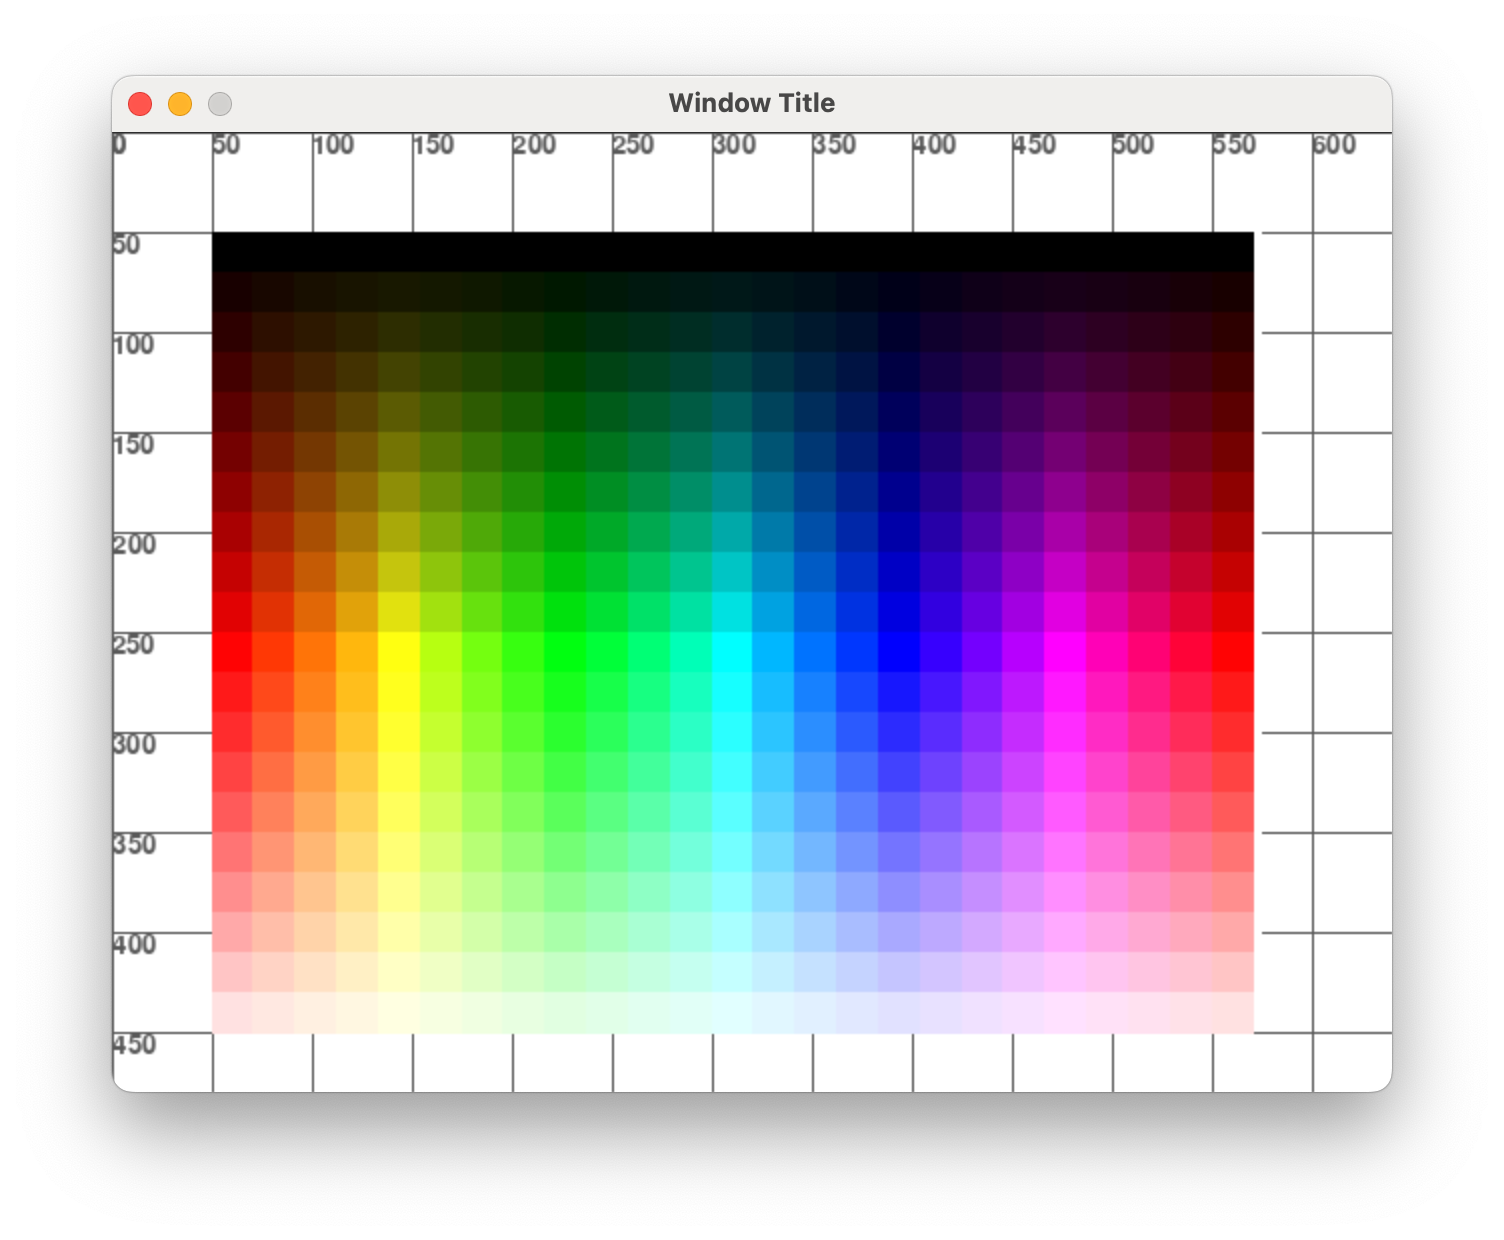
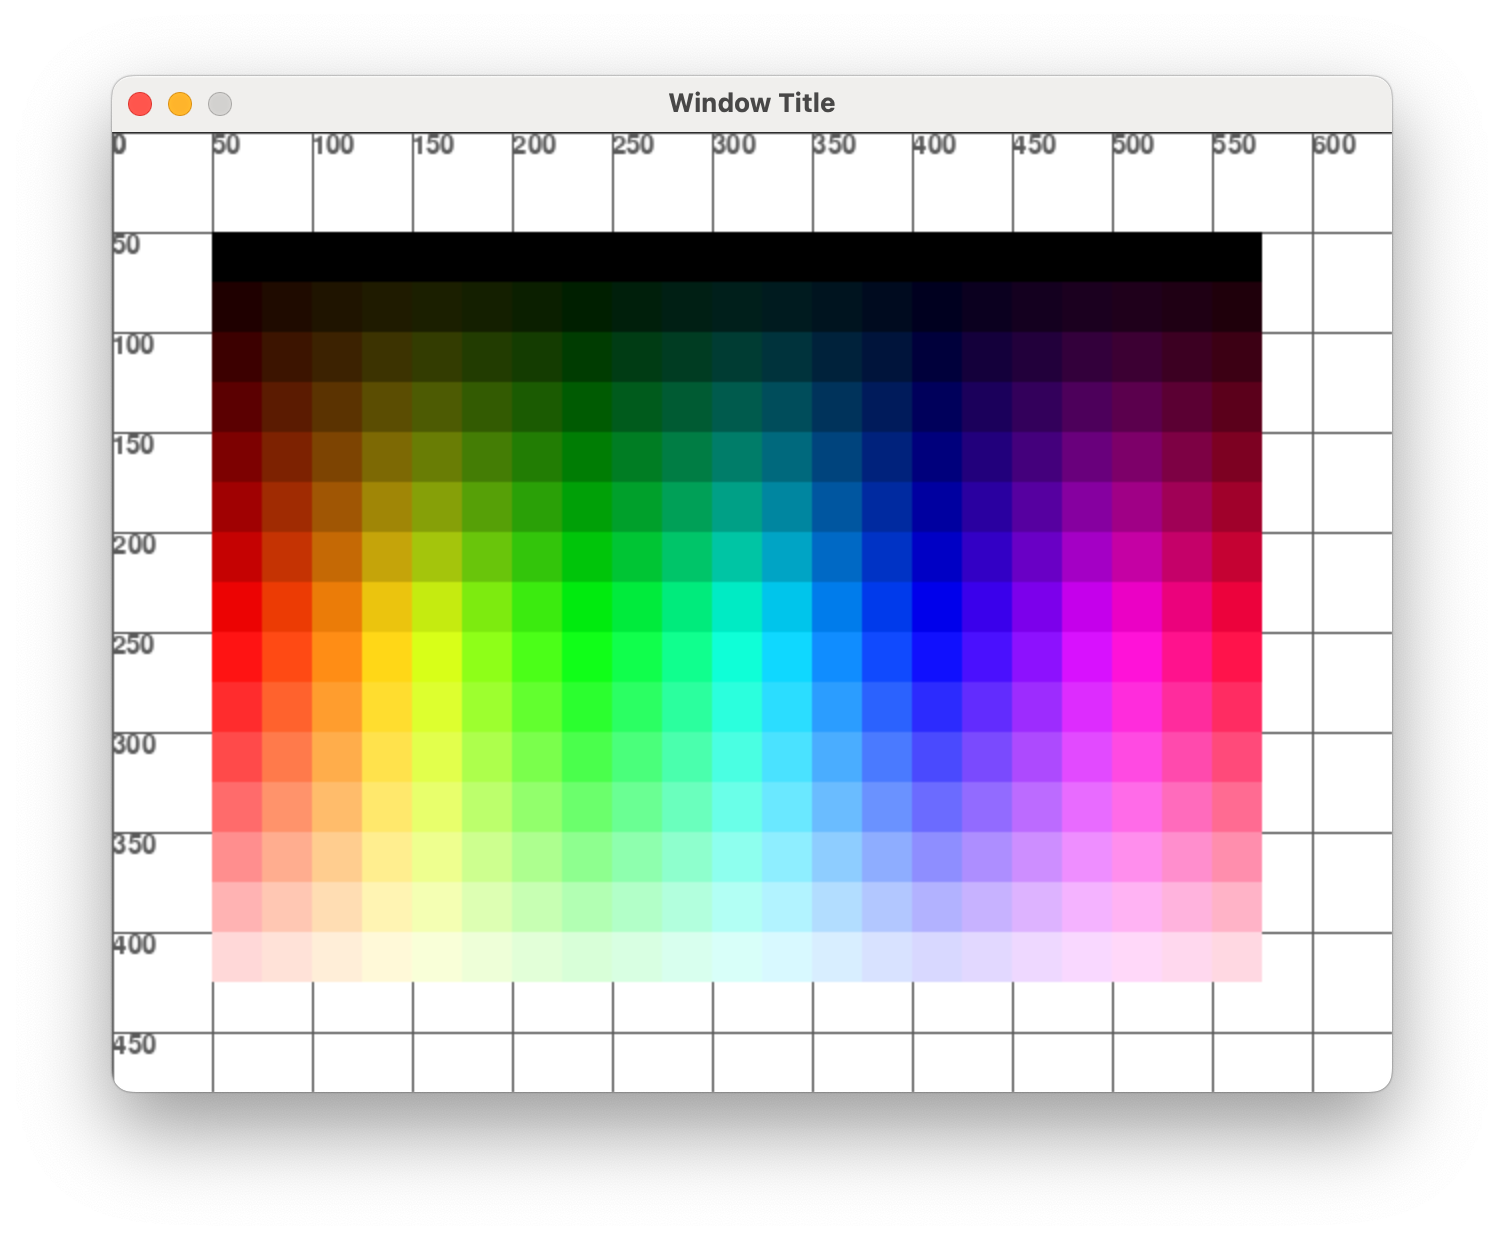
.

Changed region(s): [[0.125, 0.1839, 0.8438, 0.8581]]

diff --git a/Python/52 Deures D/exercici023resolt.py b/Python/52 Deures D/exercici023resolt.py
@@ -11,10 +11,9 @@ BLACK = (0, 0, 0)
 BLUE = (50, 120, 200)
 BROWN = (165, 42, 42)
 YELLOW = (255, 255, 0)
-GRAY = (200, 200, 200)
+GRAY = (169, 169, 169) 
 ORANGE = (255, 165, 0)
 GOLD = (255, 215, 0)
-LIGHT_GRAY = (169, 169, 169) 
 RED = (255, 69, 0) 
 
 pygame.init()
@@ -27,16 +26,15 @@ pygame.display.set_caption('Window Title')
 # Definir variables globals
 font = pygame.font.Font(None, 16)
 
-earth_rotation = 150
 sun = {
     "pos": (0, 0),
-    "radius": earth_rotation / 10
+    "radius": 20
 }
 planets = {
-    "Mercury": { "angle": 0, "distance": 0.39, "speed": 47.87, "size": 0.38, "color": LIGHT_GRAY, "pos": (0, 0) },
-    "Venus":   { "angle": 0, "distance": 0.72, "speed": 35.02, "size": 0.95, "color": GOLD, "pos": (0, 0) },
-    "Earth":   { "angle": 0, "distance": 1.00, "speed": 29.78, "size": 1.00, "color": BLUE, "pos": (0, 0) },
-    "Mars":    { "angle": 0, "distance": 1.52, "speed": 24.07, "size": 0.53, "color": RED, "pos": (0, 0) },
+    "Mercury": { "distance": 58,  "speed": 47.87, "size": 3.80, "color": GRAY, "angle": 0, "pos": (0, 0) },
+    "Venus":   { "distance": 108, "speed": 35.02, "size": 9.50, "color": GOLD, "angle": 0, "pos": (0, 0) },
+    "Earth":   { "distance": 150, "speed": 29.78, "size": 10.0, "color": BLUE, "angle": 0, "pos": (0, 0) },
+    "Mars":    { "distance": 228, "speed": 24.07, "size": 5.30, "color": RED,  "angle": 0, "pos": (0, 0) },
 }
 
 # Bucle de l'aplicació
@@ -67,13 +65,13 @@ def app_run():
     delta_time = clock.get_time() / 1000.0  
     
      # Posició del Sol al centre de la pantalla
-    sun["pos"] = (screen.get_width() // 2, screen.get_height() // 2) 
+    sun["pos"] = (int(screen.get_width() / 2), int(screen.get_height() / 2)) 
 
     planet_names = list(planets.keys()) 
     for name in planet_names:
         planet = planets[name]
-        planet["angle"] += planet["speed"] * delta_time
-        distance_from_sun = earth_rotation * planet["distance"]  # Escala la distància respecte al radi de la Terra
+        planet["angle"] = planet["angle"] + planet["speed"] * delta_time
+        distance_from_sun = planet["distance"]
         planet["pos"] = posicio_perimetre_cercle(sun["pos"], distance_from_sun, planet["angle"])
 
 # Dibuixar
@@ -88,19 +86,17 @@ def app_draw():
 
     # Dibuixar els planetes i les seves òrbites
     for name, planet in planets.items():
-        orbit_radius = earth_rotation * planet["distance"]
-        planet_draw_radius = int(planet["size"] * 10)
-                          
+                         
         # Dibuixar l'òrbita com a cercle gris (traç de 1 píxel)
-        pygame.draw.circle(screen, GRAY, sun["pos"], int(orbit_radius), 1)
+        pygame.draw.circle(screen, GRAY, sun["pos"], planet["distance"], 1)
         
         # Dibuixar el planeta a la seva posició
-        pygame.draw.circle(screen, planet["color"], (int(planet["pos"][0]), int(planet["pos"][1])), planet_draw_radius)
+        pygame.draw.circle(screen, planet["color"], (int(planet["pos"][0]), int(planet["pos"][1])), planet["size"])
 
         # Dibuixar el nom del planeta
-        label = font.render(name, True, LIGHT_GRAY)
+        label = font.render(name, True, GRAY)
         label_rect = label.get_rect()
-        label_rect.midleft = (planet["pos"][0] + planet_draw_radius + 5, planet["pos"][1]) 
+        label_rect.midleft = (planet["pos"][0] + planet["size"] + 5, planet["pos"][1]) 
         screen.blit(label, label_rect)
 
     pygame.display.update()

diff --git a/Python/52 Deures D/exercici016resolt.py b/Python/52 Deures D/exercici016resolt.py
@@ -53,15 +53,21 @@ def app_draw():
     utils.draw_grid(pygame, screen, 50)
 
     # Dibuixar les dades
-    for hue in range(0, 361, 15):
-        for counter in range(0, 100, 5):
-            value = counter / 100
+    
+    rows = 15
+    columns = 21
+    lgt_step = (1/ rows)
+    hue_step = (360 / columns)
 
-            x = 50 + hue * (500 / 360)
-            y = 50 + counter * 4
+    for row in range(0, rows):
+        y = 50 + row * 25
+        lightness = lgt_step * row
+        for column in range(0, columns):
+            x = 50 + column * 25
+            hue = hue_step * column
 
-            color = hsl_to_rgb(hue, 1.0, value)
-            pygame.draw.rect(screen, color, pygame.Rect(x, y, 21, 21))
+            color = hsl_to_rgb(hue, 1.0, lightness)
+            pygame.draw.rect(screen, color, pygame.Rect(x, y, 25, 25))
 
     # Actualitzar el dibuix a la finestra
     pygame.display.update()

diff --git a/Python/52 Deures D/exercici015resolt.py b/Python/52 Deures D/exercici015resolt.py
@@ -53,10 +53,14 @@ def app_draw():
     utils.draw_grid(pygame, screen, 50)
 
     # Dibuixar les dades
-    for hue in range(0, 361, 15):
-        x = 50 + hue * (500 / 360)
+    columns = 21
+    hue_step = (360 / columns)
+    for column in range(0, columns):
+        x = 50 + column * 25
+        hue = hue_step * column
+
         color = hsl_to_rgb(hue, 1.0, 0.5)
-        pygame.draw.rect(screen, color, pygame.Rect(x, 200, 21, 21))
+        pygame.draw.rect(screen, color, pygame.Rect(x, 200, 25, 25))
 
     # Actualitzar el dibuix a la finestra
     pygame.display.update()

diff --git a/Python/52 Deures D/exercici007resolt.py b/Python/52 Deures D/exercici007resolt.py
@@ -68,13 +68,14 @@ def app_draw():
         x = 50 + (q * 100) + radius
         pygame.draw.circle(screen, colors[q], (x, 150 + radius), radius, 2)
 
+    grey = 0
     for q in range (0, 10):
         radius = 25
         x = 50 + (q * 100) + radius
-        grey = 25 * q
         color = (grey, grey, grey)
         draw_polygon(screen, color, (x, 250 + radius), radius, 3)
         draw_polygon(screen, color, (x, 350 + radius), radius, 5)
+        grey = grey + 25
 
     # Actualitzar el dibuix a la finestra
     pygame.display.update()

diff --git a/Python/52 Deures D/exercici005resolt.py b/Python/52 Deures D/exercici005resolt.py
@@ -50,7 +50,7 @@ def app_draw():
     utils.draw_grid(pygame, screen, 50)
     
     # Centre de la finstra
-    center_x, center_y = screen.get_width() // 2, screen.get_height() // 2
+    center_x, center_y = int(screen.get_width() / 2), int(screen.get_height() / 2)
     
     # Paràmetres de l'espiral rectangular
     x, y = center_x, center_y

diff --git a/Python/52 Deures D/Exercicis.md b/Python/52 Deures D/Exercicis.md
@@ -69,7 +69,7 @@ Fes un programa **exercici003.py** que faci el següent dibuix, amb les eines de
 
 Fes servir dos bucles:
 
-- Un bucle per els colors emplenats vermells i blancs
+- Un bucle pels colors emplenats vermells i blancs
 - Un bucle pels cercles negres
 
 <br/>
@@ -81,7 +81,7 @@ Fes servir dos bucles:
 
 Fes un programa **exercici004.py** que faci un dibuix aleatori, amb les eines de dibuix de **pygame**.
 
-Al iniciar el mètode main, s'ha d'emplenar una llista amb 10 coordenades (x,y) aleatòria dins dels limits de la pantalla.
+Al iniciar el mètode main, s'ha d'emplenar una llista amb 10 coordenades (x,y) aleatòria dins dels limits de la finestra.
 
 ```python
 window_width, window_height = screen.get_size()
@@ -101,7 +101,7 @@ Fes un programa **exercici005.py** que faci el següent dibuix, amb les eines de
 S'ha de dibuixar una espiral rectangular que surt des del centre de la finestra:
 ```python
 # Centre de la pantalla
-center_x, center_y = screen.get_width() // 2, screen.get_height() // 2
+center_x, center_y = int(screen.get_width() / 2), int(screen.get_height() / 2)
 ```
 
 En total ha de fer 25 voltes (linies) a partir d'un bucle:
@@ -134,18 +134,18 @@ Fes un programa **exercici006.py** que faci el següent dibuix, fent servir bucl
 
 Fes un programa **exercici007.py** que faci el següent dibuix, a partir de dos bucles:
 
-- Els bucles es defineixen com **for q in range (0, len(colors))**
+- Els bucles es defineixen com: **"for q in range (0, len(colors))"**
 
-- Els colors del primer bucle s'obtenen de la següent llista
-    colors = [(127, 184, 68), (240, 187, 64), (226, 137, 50), (202, 73, 65), (135, 65, 152), (75, 154, 217)]
+- Els colors del primer bucle s'obtenen de la següent llista:
+    **"colors = [(127, 184, 68), (240, 187, 64), (226, 137, 50), (202, 73, 65), (135, 65, 152), (75, 154, 217)]"**
 
-- Els colors *grisos* s'obtenen dinàmicament des de (0, 0, 0) sumant 25 a cada iteració.
+- Els colors *grisos* s'obtenen dinàmicament des de (0, 0, 0) sumant 25 a cada iteració. És a dir: **"(0, 0, 0) > (25, 25, 25) > (50, 50, 50) ..."**
 
-- La mida dels quadres és de 50 i els radis de la resta de polígons és de 25
+- La mida dels quadres és de **50** i els radis de la resta de polígons és de **25**
 
 - Necessitaràs la següent funció per dibuixar els triangles i pentàgons.
 
-```pyton
+```python
 def draw_polygon(screen, color, center, radius, num_vertices, angle_offset=(math.pi / 3)):
     points = [
         (
@@ -164,9 +164,10 @@ def draw_polygon(screen, color, center, radius, num_vertices, angle_offset=(math
 
 ## Exercici 8
 
-Fes un programa **exercici008.py** que faci el següent dibuix, a partir de la següent matriu, on cada número de la matriu correspon a un color de la llista del primer exercici. 
+Fes un programa **exercici008.py** que faci el següent dibuix, a partir de la següent matriu, on cada número de la matriu correspon a un color de la llista:
 
-```text
+```python
+colors = [(127, 184, 68), (240, 187, 64), (226, 137, 50), (202, 73, 65), (135, 65, 152), (75, 154, 217)]
 board = [
     [0, 1, 2, 3, 4, 5, 4, 3],
     [1, 2, 3, 4, 5, 4, 3, 2],
@@ -238,7 +239,7 @@ Dibuixi els rectangles a les posicions indicades, i els empleni del color quan e
 
 Ha de fer servir bucles for, tant a **"app_run""** per detectar si el mouse està en algun rectangle, com a **"app_draw"** per fer el dibuix.
 
-Podeu fer servir la funció **.collidepoint** de **pygame** que a partir d'un **Rect** i un **punt** diu si el punt està dins del rectangle o no.
+Podeu fer servir la funció [collidepoint](https://www.pygame.org/docs/ref/rect.html#pygame.Rect.collidepoint) de **pygame** que a partir d'un **Rect** i un **punt** diu si el punt està dins del rectangle o no.
 
 <center>
 <video width="100%" controls allowfullscreen style="max-width: 90%; width: 400px; max-height: 250px">
@@ -293,7 +294,15 @@ La posició **x** de cada quadre també s'ha de calcular a partir de **counter**
 
 ## Exercici 15
 
-Fes un programa **exercici015.py** que faci el següent dibuix, a partir d'un bucle i la funció que transforma valors de color HSL a RGB:
+Fes un programa **exercici015.py** que faci el següent dibuix, a partir d'un bucle.
+
+Els colors [HSL](https://en.wikipedia.org/wiki/HSL_and_HSV) representen els colors a partir de:
+
+- **hue**: Un número entre 0 i 360 que representa el color (to) en el cercle cromàtic. 
+- **saturation**: Un número entre 0 i 1 que representa la saturació o intensitat del color. 
+- **lightness**: Un número entre 0 i 1 que representa la lluminositat del color. 
+
+Aquesta funció transforma un color **HSL** al format **RGB** de **pygame**:
 
 ```python
 def hsl_to_rgb(hue, saturation, lightness):
@@ -311,19 +320,18 @@ def hsl_to_rgb(hue, saturation, lightness):
     return r, g, b
 ```
 
-Els color [HSL](https://en.wikipedia.org/wiki/HSL_and_HSV) representen els colors a partir de:
-
-- **hue**: Un número entre 0 i 360 que representa el color (to) en el cercle cromàtic. 
-- **saturation**: Un número entre 0 i 1 que representa la saturació o intensitat del color. 
-- **lightness**: Un número entre 0 i 1 que representa la lluminositat del color. 
-
 Per fer l'exercici fes servir:
 
-- El bucle: **for hue in range(0, 361, 15):**
-- **x**: 50 + hue * (500 / 360)
+```python
+columns = 21
+    for column in range(0, columns):
+```
+
+- **x**: x = 50 + column * 25
+- **hue**: hue = (360 / 21) * column
 - **saturation**: 1.0
 - **lightness**: 0.5
-- Cada quadre és de 21x21
+- Cada quadre és de 25x25
 
 <br/>
 <center><img src="./assets/exercici015.png" style="max-height: 400px" alt="">
@@ -335,15 +343,17 @@ Per fer l'exercici fes servir:
 Fes un programa **exercici016.py** que faci el següent dibuix, a partir de dos bucles anidats:
 
 ```python
-for hue in range(0, 361, 15):
-    for counter in range(0, 100, 5):
+rows = 15
+columns = 21
+for row in range(0, rows):
+    for column in range(0, columns):
 ```
 
 - Obté un valor entre 0 i 1 equivalent al counter (dividir per 100)
-- **y**: 50 + counter * 4
+- **y**: 50 + row * 25
 - **saturation**: 1.0
-- **lightness**: Igual al valor entre 0 i 1 del càlcul anterior
-- Cada quadre és de 21x21
+- **lightness**: (1/ 15) * row
+- Cada quadre és de 25x25
 
 <br/>
 <center><img src="./assets/exercici016.png" style="max-height: 400px" alt="">
@@ -381,7 +391,7 @@ Fes un programa **exercici018.py** que faci el següent dibuix, una [roda de col
 
 Per fer-ho, calcula les linies com a l'exercici anterior i defineix un polígon entre la línia actual i la linia anterior. 
 
-Després emplena aquest polígon del color HSL amb l'**angle** que correson, **saturarion** a 1.0 i **lightness** a 0.5.
+Després emplena aquest polígon del color **HSL** amb l'**angle** que correson, **saturarion** a 1.0 i **lightness** a 0.5.
 
 <br/>
 <center><img src="./assets/exercici018.png" style="max-height: 400px" alt="">
@@ -514,45 +524,53 @@ BLACK = (0, 0, 0)
 BLUE = (50, 120, 200)
 BROWN = (165, 42, 42)
 YELLOW = (255, 255, 0)
-GRAY = (200, 200, 200)
+GRAY = (169, 169, 169) 
 ORANGE = (255, 165, 0)
 GOLD = (255, 215, 0)
-LIGHT_GRAY = (169, 169, 169) 
 RED = (255, 69, 0) 
 
 # Dades del sistema
-earth_rotation = 150
 sun = {
     "pos": (0, 0),
-    "radius": earth_rotation / 10
+    "radius": 20
 }
 planets = {
-    "Mercury": { "angle": 0, "distance": 0.39, "speed": 47.87, "size": 0.38, "color": LIGHT_GRAY, "pos": (0, 0) },
-    "Venus":   { "angle": 0, "distance": 0.72, "speed": 35.02, "size": 0.95, "color": GOLD, "pos": (0, 0) },
-    "Earth":   { "angle": 0, "distance": 1.00, "speed": 29.78, "size": 1.00, "color": BLUE, "pos": (0, 0) },
-    "Mars":    { "angle": 0, "distance": 1.52, "speed": 24.07, "size": 0.53, "color": RED, "pos": (0, 0) },
+    "Mercury": { "distance": 58,  "speed": 47.87, "size": 3.80, "color": GRAY, "angle": 0, "pos": (0, 0) },
+    "Venus":   { "distance": 108, "speed": 35.02, "size": 9.50, "color": GOLD, "angle": 0, "pos": (0, 0) },
+    "Earth":   { "distance": 150, "speed": 29.78, "size": 10.0, "color": BLUE, "angle": 0, "pos": (0, 0) },
+    "Mars":    { "distance": 228, "speed": 24.07, "size": 5.30, "color": RED,  "angle": 0, "pos": (0, 0) },
 }
 
-# A "app_run" es calcularà l'angle i la posició segons l'animació
+# A "app_run" es calcularà:
 
-# A "app_run" posiciona el sol al centre de la pantalla
-sun["pos"] = (screen.get_width() // 2, screen.get_height() // 2) 
+    # La posició del sol al centre de la finestra
+    sun["pos"] = (int(screen.get_width() / 2), int(screen.get_height() / 2)) 
 
-# A "app_run" calcula la posició de cada planeta amb la funció
+    # Per cada planeta, calcula el seu 'angle' a partir de "velocitat*delta_time"
+    # (cada planeta té la seva pròpia velocitat)
+
+    # Per cada planeta, calcula la seva posició 'x,y' al perímetre de la òrbita
+    # amb la funció 'posicio_perimetre_cercle'
+    # - El radi és la seva distància fins al sol 
+    # - L'angle l'has calculat al pas anterior
+
+# A "app_draw" per cada planeta es dibuixa:
+
+    # El cercle de la òrbita de color "GRAY = (169, 169, 169)" 
+    # Cada planeta a la seva posició
+
+    # El nom del planeta
+    label = font.render(name, True, GRAY)
+    label_rect = label.get_rect()
+    label_rect.midleft = (planet["pos"][0] + planet["size"] + 5, planet["pos"][1]) 
+    screen.blit(label, label_rect)
+
+# Fes servir aquesta funció per calcular la posició (x, y) dels planetes
 def posicio_perimetre_cercle(center, radi, angle_graus):
     angle_radians = math.radians(angle_graus)  # Convertir l'angle a radians
     x = center[0] + radi * math.cos(angle_radians)    # Coordenada X
     y = center[1] + radi * math.sin(angle_radians)    # Coordenada Y
     return x, y
-
-# A "app_draw" tingues en compte que el plantea es dibuixa amb una mida 
-planet_draw_radius = int(planet["size"] * 10)
-
-# A "app_draw" tingues en compte que els noms dels planetes s'alinean a la dreta + 5
-label = font.render(name, True, LIGHT_GRAY)
-label_rect = label.get_rect()
-label_rect.midleft = (planet["pos"][0] + planet_draw_radius + 5, planet["pos"][1]) 
-screen.blit(label, label_rect)
 ```
 
 <center>
